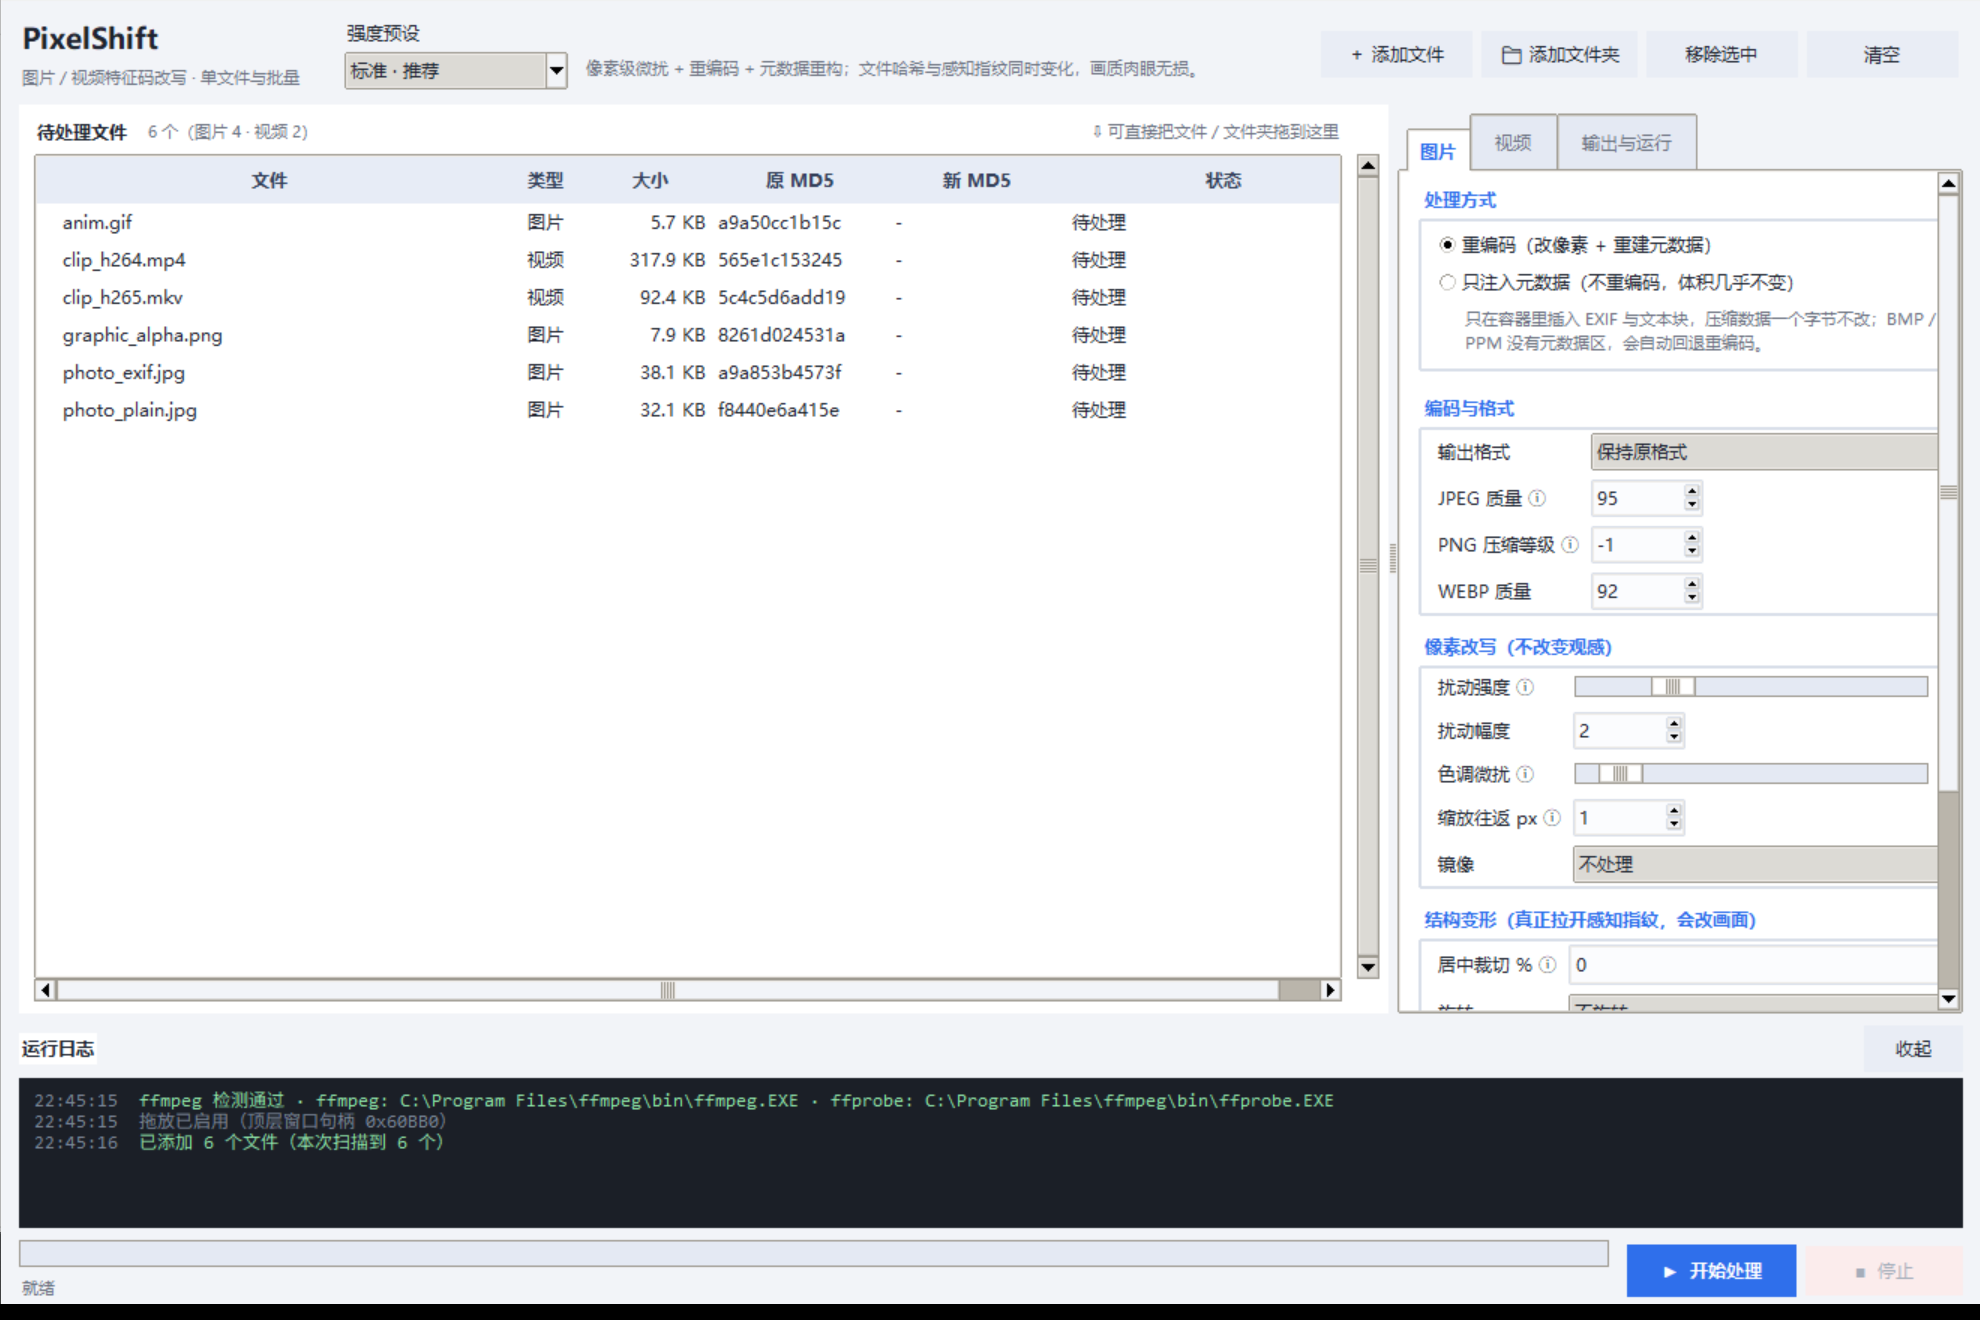
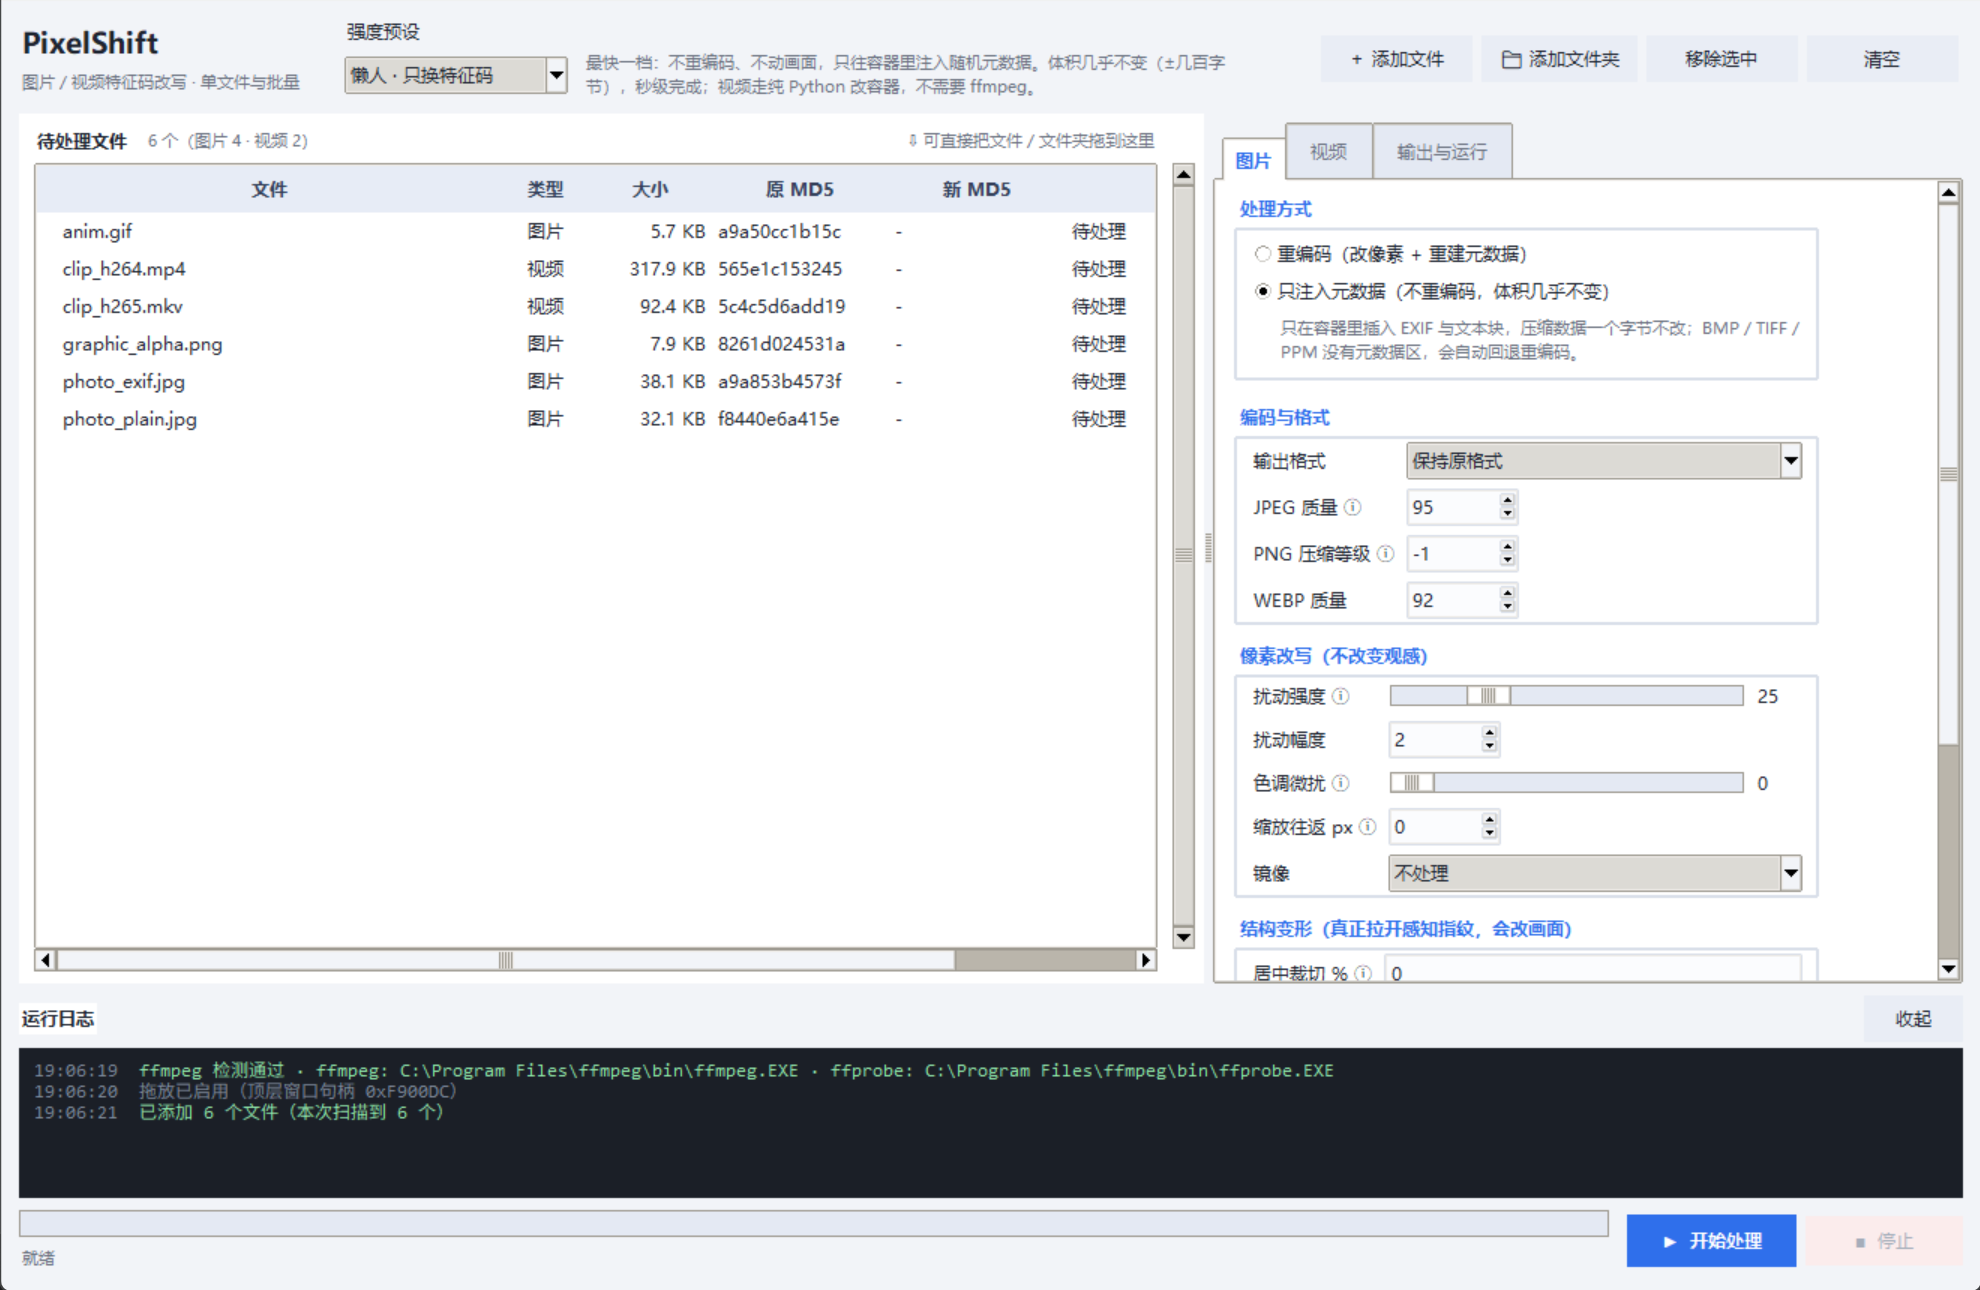
fix: 修复位深与色彩空间损伤，默认预设改为懒人
P0 —— 三处会无声损坏源文件的问题
- images.py：不再把一切非 RGB 模式压成 RGB。I;16 / I / F / CMYK 进入
  PRECISE_MODES 保守路径，跳过噪声/色调/缩放往返/裁切，只做几何变换与元数据；
  新增 FORMAT_MODES 表，仅在目标格式确实不支持该模式时才转换并记录原因
- _grain_bytes：遇到非 8bit 模式直接返回，不再转 RGB 降精度
- videos.py：新增 pick_pix_fmt()，按源 pix_fmt 选输出位深（yuv420p10le 保持 10bit，
  p010le/nv20le/12bit 正确映射），profile 随之 high/high10 切换；
  新增 _color_args() 透传 color_primaries/color_trc/colorspace，避免 HDR 被当 sRGB

验证
- 16bit PNG: I;16 -> I;16，像素值逐点一致
- CMYK JPEG: CMYK -> CMYK
- 10bit 视频: yuv420p10le/High 10 -> yuv420p10le/High 10
- 四套测试 34+37+42+14 = 127 项全通过

默认值
- DEFAULT_PRESET 改为 lazy（只换特征码，体积 +0.2%）
- cli 的 -p 默认值改为跟随 DEFAULT_PRESET（原先硬编码 medium，不随配置走）
- 输出格式保持 keep（原格式）不变
- 重新生成界面截图

文档
- README 移除「仓库当前为私有」表述，准备公开
- 强度表标注懒人为默认，补充高精度模式说明

diff --git a/pixelshift/videos.py b/pixelshift/videos.py
@@ -117,10 +117,23 @@ class ProbeInfo:
     has_sub: bool = False
     format_name: str = ""
     bitrate: int = 0
+    pix_fmt: str = ""
+    color_primaries: str = ""
+    color_transfer: str = ""
+    color_space: str = ""
 
     @property
     def resolution(self) -> str:
         return f"{self.width}x{self.height}"
+
+    @property
+    def bit_depth(self) -> int:
+        """从 pix_fmt 推断位深：yuv420p10le → 10，yuv420p → 8。"""
+        p = self.pix_fmt.lower()
+        for d in ("16", "12", "10"):
+            if d + "le" in p or d + "be" in p:
+                return int(d)
+        return 8
 
 
 def probe(path: str | Path) -> ProbeInfo:
@@ -161,6 +174,10 @@ def probe(path: str | Path) -> ProbeInfo:
             info.vcodec = st.get("codec_name", "")
             info.width = int(st.get("width") or 0)
             info.height = int(st.get("height") or 0)
+            info.pix_fmt = st.get("pix_fmt") or ""
+            info.color_primaries = st.get("color_primaries") or ""
+            info.color_transfer = st.get("color_transfer") or ""
+            info.color_space = st.get("color_space") or ""
             rate = st.get("avg_frame_rate") or st.get("r_frame_rate") or "0/1"
             try:
                 num, _, den = rate.partition("/")
@@ -329,6 +346,49 @@ def _meta_args(opt: VideoOptions, rng: random.Random, container: str,
     return args
 
 
+# libx264 支持的像素格式（gyan full build 含 10bit 变体）
+_X264_PIX_FMTS = {
+    "yuv420p", "yuvj420p", "yuv422p", "yuvj422p", "yuv444p", "yuvj444p",
+    "nv12", "nv16", "nv21", "yuv420p10le", "yuv422p10le", "yuv444p10le",
+    "nv20le", "gray", "gray10le",
+}
+# 源格式 → 可编码的等价格式
+_PIX_ALIAS = {
+    "p010le": "yuv420p10le", "p016le": "yuv420p10le", "p210le": "yuv422p10le",
+    "nv16": "yuv422p", "nv20le": "yuv422p10le",
+    "yuvj420p": "yuv420p", "yuvj422p": "yuv422p", "yuvj444p": "yuv444p",
+    "gbrp": "yuv444p", "gbrp10le": "yuv444p10le", "gbrp12le": "yuv444p10le",
+    "yuv410p": "yuv420p", "yuv411p": "yuv422p",
+}
+
+
+def pick_pix_fmt(src_pix_fmt: str) -> str:
+    """按源位深选输出像素格式 —— 10bit / 12bit 内容不会被无声降到 8bit。"""
+    p = (src_pix_fmt or "").lower().strip()
+    if not p:
+        return "yuv420p"
+    if p in _X264_PIX_FMTS:
+        return p
+    if p in _PIX_ALIAS:
+        return _PIX_ALIAS[p]
+    for depth in ("16", "12", "10"):
+        if p.endswith(depth + "le") or p.endswith(depth + "be"):
+            # x264 最高到 10bit：12/16bit 降到 10bit 而不是 8bit
+            return "yuv420p10le"
+    return "yuv420p"
+
+
+def _color_args(pr: ProbeInfo) -> list[str]:
+    """显式透传色彩元数据，避免 HDR/BT.2020 内容被当 sRGB 编码。"""
+    out: list[str] = []
+    for flag, val in (("-color_primaries", pr.color_primaries),
+                      ("-color_trc", pr.color_transfer),
+                      ("-colorspace", pr.color_space)):
+        if val and val not in ("unknown", "reserved"):
+            out += [flag, val]
+    return out
+
+
 def build_command(src: Path, dst: Path, opt: VideoOptions, pr: ProbeInfo,
                   rng: random.Random, mode: str | None = None) -> list[str]:
     mode = mode or opt.mode
@@ -350,10 +410,14 @@ def build_command(src: Path, dst: Path, opt: VideoOptions, pr: ProbeInfo,
             args += ["-map", "0:s?"]
 
         vf = build_filter(opt, pr, rng, mode)
+        out_pix_fmt = pick_pix_fmt(pr.pix_fmt)
         args += ["-c:v", "libx264", "-preset", opt.preset,
-                 "-crf", str(max(16, min(32, opt.crf))), "-pix_fmt", "yuv420p"]
+                 "-crf", str(max(16, min(32, opt.crf))), "-pix_fmt", out_pix_fmt]
+        # profile 必须跟着位深走：10bit 不能用 high（那是 8bit 档）
+        profile = "high10" if out_pix_fmt.endswith("10le") else "high"
         keyint = opt.keyint if opt.keyint > 0 else rng.randint(200, 300)
-        args += ["-g", str(keyint), "-bf", "3", "-profile:v", "high"]
+        args += ["-g", str(keyint), "-bf", "3", "-profile:v", profile]
+        args += _color_args(pr)
         if vf:
             args += ["-vf", vf]
 
@@ -389,7 +453,8 @@ def process_video(src: str | Path, dst: str | Path, opt: VideoOptions,
     pr = probe(src)
     info.update(duration=round(pr.duration, 2), width=pr.width, height=pr.height,
                 vcodec=pr.vcodec, acodec=pr.acodec, fps=round(pr.fps, 3),
-                has_audio=pr.has_audio, has_sub=pr.has_sub)
+                has_audio=pr.has_audio, has_sub=pr.has_sub,
+                pix_fmt=pr.pix_fmt, bit_depth=pr.bit_depth)
 
     dst.parent.mkdir(parents=True, exist_ok=True)
     mode = opt.mode
@@ -425,7 +490,11 @@ def process_video(src: str | Path, dst: str | Path, opt: VideoOptions,
         out_pr = probe(dst)
         info.update(out_duration=round(out_pr.duration, 2),
                     out_width=out_pr.width, out_height=out_pr.height,
-                    out_vcodec=out_pr.vcodec)
+                    out_vcodec=out_pr.vcodec,
+                    out_pix_fmt=out_pr.pix_fmt, out_bit_depth=out_pr.bit_depth)
+        if pr.bit_depth > 8 and out_pr.bit_depth < pr.bit_depth:
+            extra = f"位深 {pr.bit_depth}bit → {out_pr.bit_depth}bit"
+            info["note"] = (info.get("note", "") + " " + extra).strip()
     except VideoError as exc:
         info["verify_error"] = str(exc)
 

diff --git a/pixelshift/images.py b/pixelshift/images.py
@@ -29,6 +29,22 @@ _FMT_SAVE = {
 }
 _ALIAS = {"JPG": "JPEG", "TIF": "TIFF", "MPO": "JPEG"}
 
+# 高精度 / 非 sRGB 模式：一律不做会改变数值语义的像素级操作
+# （16bit 灰度、CMYK 印刷稿、浮点图，一旦转 RGB 就永久损失精度）
+PRECISE_MODES = {"I", "I;16", "I;16B", "I;16L", "I;16N", "F",
+                 "CMYK", "YCbCr", "LAB", "HSV"}
+
+# 各保存格式能原样接受的 PIL 模式；不在此集合里的才做转换
+FORMAT_MODES = {
+    "JPEG": {"L", "RGB", "CMYK"},
+    "PNG": {"1", "L", "LA", "I", "I;16", "P", "RGB", "RGBA"},
+    "TIFF": {"1", "L", "LA", "P", "RGB", "RGBA", "CMYK", "I", "I;16", "F", "YCbCr"},
+    "WEBP": {"RGB", "RGBA"},
+    "BMP": {"1", "L", "P", "RGB", "RGBA"},
+    "GIF": {"P", "L"},
+    "PPM": {"RGB", "L"},
+}
+
 # EXIF IFD0 标签
 T_DESC = 270
 T_MAKE = 271
@@ -99,8 +115,9 @@ def _grain_bytes(img: Image.Image, opt: ImageOptions, rng: random.Random) -> Ima
     """逐字节扰动：随机挑一小撮像素通道做 ±delta，肉眼不可见但破坏统计特征。"""
     if opt.pixel_noise <= 0:
         return img
+    # 只处理 8bit 单通道/三通道；其余模式直接返回，绝不转 RGB 降精度
     if img.mode not in ("RGB", "RGBA", "L", "LA"):
-        img = img.convert("RGB")
+        return img
     buf = bytearray(img.tobytes())
     total = len(buf)
     count = int(total * (opt.pixel_noise / 100.0) * 0.0035)
@@ -293,10 +310,13 @@ def process_image(src: str | Path, dst: str | Path, opt: ImageOptions,
         # ---- 静态图（含 GIF 首帧）
         img = im if not animated else im.convert("RGB")
         work = img.copy()
-        if work.mode not in ("RGB", "L", "RGBA", "LA", "P"):
-            work = work.convert("RGB")
+        # 高精度 / 非 RGB 模式：不做会改变数值语义的像素操作，只改元数据
+        src_mode = work.mode
+        precise = src_mode in PRECISE_MODES
+        if precise:
+            info["precise_mode"] = src_mode
 
-        # 1) 可选旋转 / 镜像
+        # 1) 可选旋转 / 镜像（纯几何变换，对任何模式都安全）
         if opt.rotate != "none":
             work = _rotate(work, opt.rotate)
             info["rotate"] = opt.rotate
@@ -305,30 +325,35 @@ def process_image(src: str | Path, dst: str | Path, opt: ImageOptions,
             info["mirror"] = True
 
         # 2) 居中裁切 + 放大回原尺寸（强改感知指纹）
-        if opt.crop_percent > 0:
+        if opt.crop_percent > 0 and not precise:
             work = _crop_zoom(work, opt.crop_percent, rng)
             info["crop_percent"] = opt.crop_percent
 
         # 3) 缩放往返（打断重采样指纹）
-        if opt.micro_resize > 0:
+        if opt.micro_resize > 0 and not precise:
             work = _resize_roundtrip(work, rng.randint(1, opt.micro_resize))
 
         # 4) 色调微调
-        if opt.color_jitter > 0:
+        if opt.color_jitter > 0 and not precise:
             work = _color_jitter(work, opt.color_jitter, rng)
 
         # 5) 像素噪声
-        if opt.pixel_noise > 0:
+        if opt.pixel_noise > 0 and not precise:
             work = _grain_bytes(work, opt, rng)
 
-        # 6) 格式落定
-        if out_fmt == "JPEG":
-            work = _flatten(work)
-        elif out_fmt in ("PNG", "WEBP", "TIFF", "BMP"):
-            if work.mode == "P":
-                work = work.convert("RGBA") if "transparency" in img.info else work.convert("RGB")
-            if out_fmt == "BMP" and work.mode not in ("RGB", "L"):
+        # 6) 格式落定：只在目标格式不支持该模式时才转换，并记录原因
+        accepted = FORMAT_MODES.get(out_fmt)
+        if accepted and work.mode not in accepted:
+            before = work.mode
+            if out_fmt == "JPEG" and before in ("RGBA", "LA", "P"):
                 work = _flatten(work)
+                info["mode_note"] = f"{before} → RGB（铺白底）"
+            else:
+                work = work.convert("RGB")
+                info["mode_note"] = f"{before} → RGB（{out_fmt} 不支持该模式）"
+        elif work.mode == "P" and out_fmt in ("PNG", "WEBP", "TIFF"):
+            work = work.convert("RGBA") if "transparency" in img.info else work.convert("RGB")
+            info["mode_note"] = "P → RGBA/RGB（保留透明）"
 
         meta = random_fp.image_metadata(opt.meta_profile, rng)
         exif_bytes = _build_exif(meta) if opt.inject_metadata else b""

diff --git a/pixelshift/cli.py b/pixelshift/cli.py
@@ -11,7 +11,7 @@ import time
 from pathlib import Path
 
 from . import __version__
-from .config import PRESETS, RunOptions, preset_options
+from .config import DEFAULT_PRESET, PRESETS, RunOptions, preset_options
 from .engine import Engine, collect_files
 from .hasher import human_size
 from .videos import check_tools
@@ -23,7 +23,7 @@ def build_args(argv=None) -> argparse.Namespace:
         description="PixelShift —— 批量/单个改写图片与视频的特征码（文件哈希 + 感知指纹）")
     ap.add_argument("-i", "--input", nargs="+", required=True, help="文件或目录，可多个")
     ap.add_argument("-o", "--out", default="", help="输出目录；留空则输出到源目录 _pixelshift 下")
-    ap.add_argument("-p", "--preset", default="medium", choices=list(PRESETS),
+    ap.add_argument("-p", "--preset", default=DEFAULT_PRESET, choices=list(PRESETS),
                     help="强度预设：light / medium / strong")
     ap.add_argument("--only", default="all", choices=["all", "image", "video"])
     ap.add_argument("--video-mode", default=None,

diff --git a/pixelshift/engine.py b/pixelshift/engine.py
@@ -209,6 +209,10 @@ class Engine:
                         changed_note.append(f"{job.src.suffix} 无元数据区，已改用重编码")
                     if info.get("mirror"):
                         changed_note.append("镜像")
+                    if info.get("precise_mode"):
+                        changed_note.append(f"{info['precise_mode']} 高精度模式：只改元数据")
+                    if info.get("mode_note"):
+                        changed_note.append(info["mode_note"])
                     if info.get("note"):
                         changed_note.append(info["note"])
                     if self.opts.image.inject_metadata:

diff --git a/pixelshift/__init__.py b/pixelshift/__init__.py
@@ -10,6 +10,6 @@
     cli     : 命令行入口（无界面批处理，也用于自测）
 """
 
-__version__ = "1.4.2"
+__version__ = "1.4.3"
 APP_NAME = "PixelShift"
 APP_TITLE = "PixelShift · 图片视频特征码改写器"

diff --git a/pixelshift/config.py b/pixelshift/config.py
@@ -179,7 +179,7 @@ PRESETS: dict[str, Preset] = {
     ),
 }
 
-DEFAULT_PRESET = "medium"
+DEFAULT_PRESET = "lazy"
 
 
 def preset_options(key: str) -> tuple[ImageOptions, VideoOptions]:
